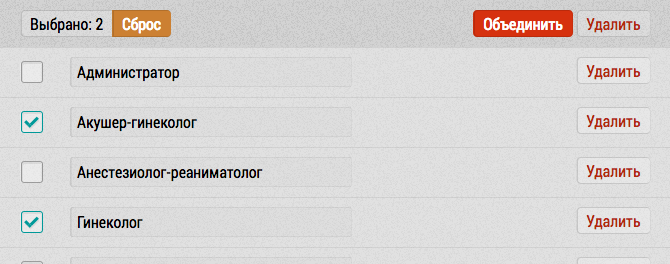
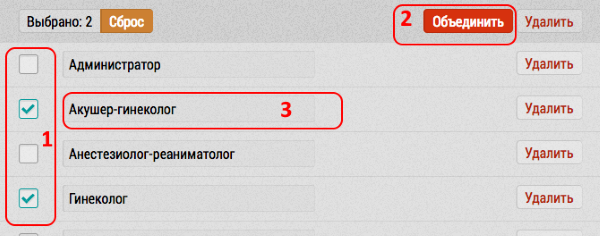
[upd] database-dict-merge. Добавил цифры

diff --git a/src/guide/database-dict-merge.md b/src/guide/database-dict-merge.md
@@ -1,11 +1,13 @@
 ## Объединение (дедубликация) элементов списка
 
-Выберете два или более элементов списка которые необходимо объединить:
+Чтобы объединить элементы списка:
 
 ![](../images/database-dict-merge.png)
 
-После чего нажмите на кнопку "Объединить".
+  - Выберите два или более элементов списка которые необходимо объединить [1]
+  - Нажмите на кнопку "Объединить" [2]
 
-После объединения в списке останется только первый выбранный элемент  (главный). 
-При необходимости можно изменить его название. 
-Остальные выбранные элементы переносятся в корзину и отвязываются от всех объектов системы в пользу главного.
+После объединения в списке останется только первый выбранный элемент (главный). 
+При необходимости можно изменить его название [3].
+ 
+Остальные выбранные элементы переносятся в [корзину](database-trash.md) и отвязываются от всех объектов системы в пользу главного.
